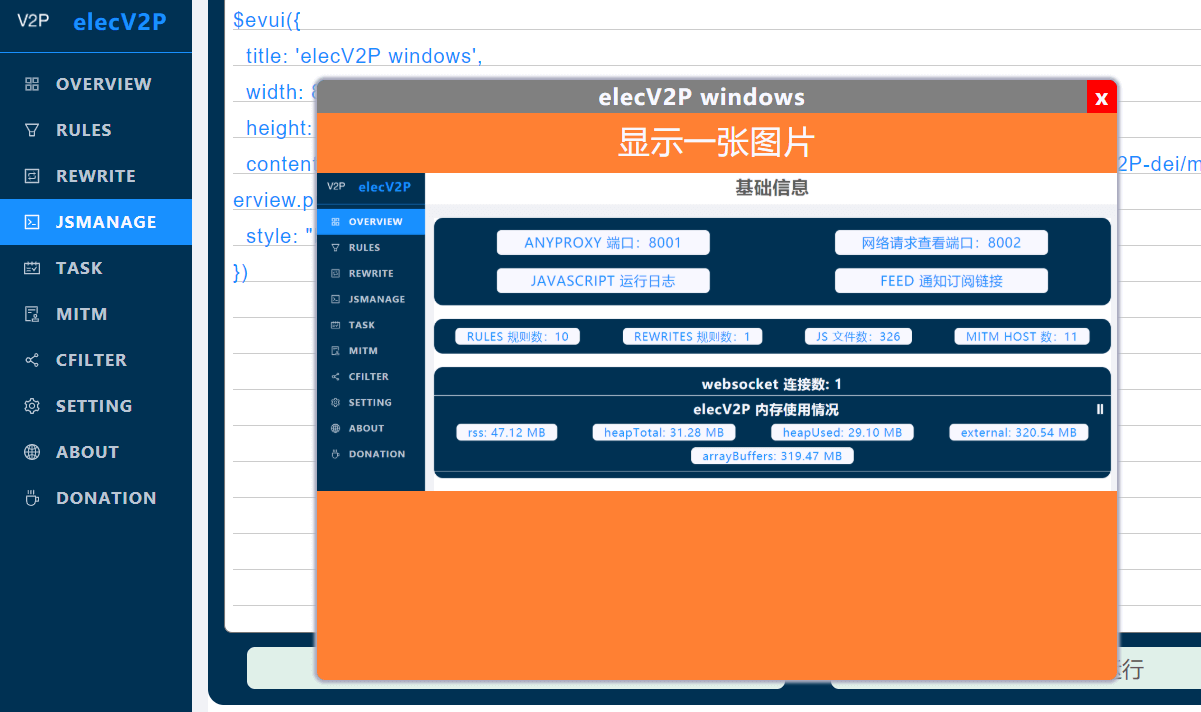
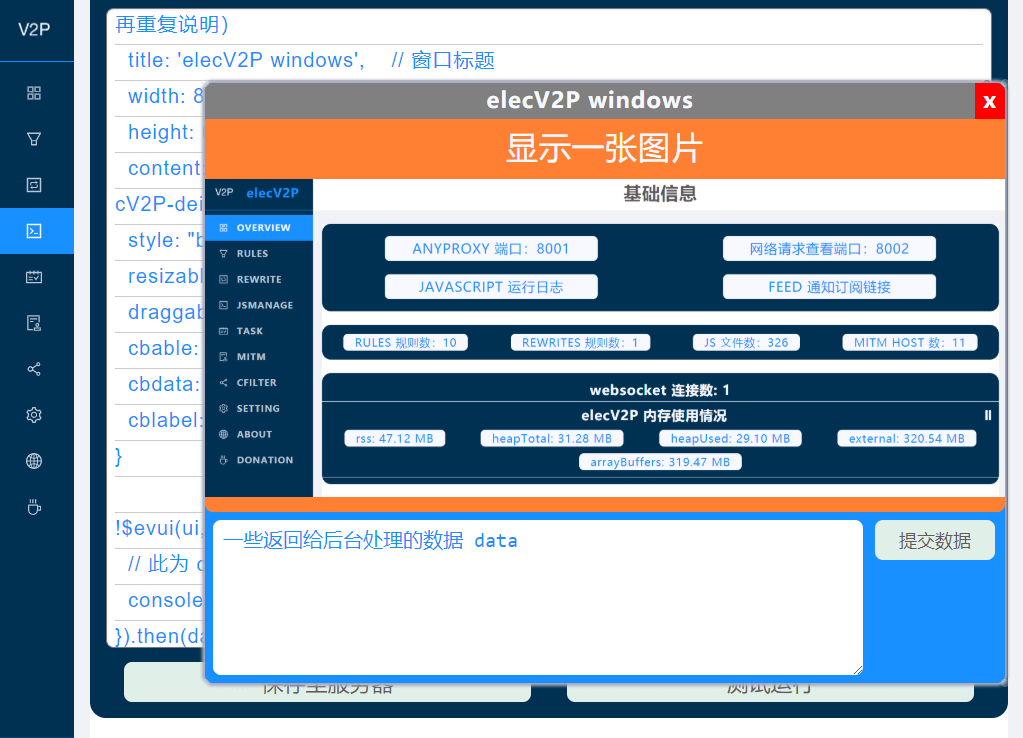
$evui 实现简易聊天室

diff --git a/examples/JSTEST/evui-chatroom.js b/examples/JSTEST/evui-chatroom.js
@@ -1,0 +1,22 @@
+// 两个设备分别运行此脚本，可实现一个简单的聊天室。
+// 关于 $evui 的更多说明参考 https://github.com/elecV2/elecV2P-dei/tree/master/docs/04-JS.md 相关部分
+
+let id = 'aa3a9f9fcc'      // 给聊天室设置一个 ID
+$evui({
+  id,
+  title: 'elecV2P $evui test',
+  width: 800,
+  height: 400,
+  content: "<p>a simple chatroom</p>",
+  style: "background: #FF8033; font-size: 32px; text-align: center",
+  resizable: true,
+  cbable: true,
+  cbdata: 'hello',
+  cblabel: '发送'
+}, data=>{
+  console.log('get new data', data)
+  // 通过 ID 使用 websocket 发送数据到指定客户端
+  $ws.send({ type: 'evui', data: { id, data: data + '\n' }})
+}).then(data=>console.log(data))
+
+console.log(id, 'chatroom is ready')

diff --git a/docs/04-JS.md b/docs/04-JS.md
@@ -1,6 +1,6 @@
 ```
-最近更新： 2021-01-16
-适用版本： 3.0.3
+最近更新： 2021-01-17
+适用版本： 3.0.4
 ```
 
 ## 保存目录
@@ -305,21 +305,36 @@ $download('https://raw.githubusercontent.com/elecV2/elecV2P-dei/master/examples/
 
 *使用前需保证至少有一个 websocket 客户端*
 
+可接收两个参数：$evui(obj, callback)
+- obj: UI 界面相关参数
+- callback: 用于接收处理 UI 界面提交返回的数据。（可省略）
+
+$evui 返回是 Promise 函数
+
 ``` JS
-$evui({
-  title: 'elecV2P windows',
-  width: 800,
-  height: 600,
-  content: "<p>显示一张图片</p><img src='https://raw.githubusercontent.com/elecV2/elecV2P-dei/master/docs/res/overview.png'>",
-  style: "background: #FF8033; font-size: 32px; text-align: center"
-})
+const ui = {
+  id: 'ebcaa4ff',      // 给图形界面一个独一无二的 ID。可省略（以下所有参数都可省略，不再重复说明）
+  title: 'elecV2P windows',    // 窗口标题
+  width: 800,          // 窗口宽度
+  height: 600,         // 窗口高度
+  content: `<p>显示一张图片</p><img src='https://raw.githubusercontent.com/elecV2/elecV2P-dei/master/docs/res/overview.png'>`,       // 图形界面显示内容
+  style: "background: #FF8033; font-size: 32px; text-align: center",  // 设置一些基础样式
+  resizable: true,     // 窗口是否可以缩放
+  draggable: true,     // 窗口是否可以拖动
+  cbable: true,        // 是否启用 callback 函数，用于接收前端 UI 提交的数据
+  cbdata: 'hello',     // 提供给前端 UI 界面的初始数据
+  cblabel: '提交数据', // 提交按钮显示文字
+}
+
+$evui(ui, data=>{
+  // 此为 callback 函数，用于接收处理前端 UI 返回的数据
+  console.log('data from client:', data)
+}).then(data=>console.log(data)).catch(e=>console.error(e))
 ```
 
 效果：
 
 ![](https://raw.githubusercontent.com/elecV2/elecV2P-dei/master/docs/res/evuitest.png)
-
-*目前还是初版，之后会添加数据交互的功能*
 
 ### $request/$response
 
